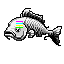
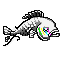
T-166 closed: every back is a back -- 67 fixed

Changed region(s): [[0.0312, 0.125, 0.9688, 0.7188]]

diff --git a/docs/TODO.md b/docs/TODO.md
@@ -64,7 +64,7 @@ was one `git log -S` away.*
 
 | | what | where | from |
 |---|---|---|---|
-| **T-166** | **Every back view is checked to be a back** (*asked 2026-09-18*). **Several redrawn backs are front-like — the model turns a rear view to face the camera, or draws the same side view twice** — *flagged on the sheets so far: SENTRY, RAMROD, TRACER, STARR (following its concept), LATENCY, LULL, NOZZLE, STUB, HANDLER; and batch 12's COLDREAD, HAUNTPROC and TRACKER; batch 13's MULTICAST; batch 14's BLINDSPOT, WHIM, HUDDLE, FIXATION, SIMMER, OMEN and BRISTLE (side-on or facing); batch 15's VIGILANCE, GRASP, IMITATION, REPAY and ILLUSION.* ***The job***: **one contact sheet of every redrawn daemon's front beside its back, read by eye, and a list of the failures** — *then each failure redrawn with batch 7's rear wording ("seen from directly behind, no face visible, back of the head") and a face-and-eyes negative, several seeds, and rebuilt.* *A check a tool can make first: a back whose pixels correlate too closely with its own front (a mirrored or duplicated view) is suspect.* ***Closes when every back on the sheet reads as the creature from behind, and the list is empty.*** ***AUDITED AND A FIRST PASS DRAFTED 2026-09-19*** (*`gfx/drafts/t166/`*): **the audit (`audit_*.png`, `similarity.txt`) found 67 front-like backs, not the 25 listed** — *the symmetric daemons (CLUSTER, LOCUS, BEACON, PULSAR, the jellyfish, dragonflies, crabs) are right to match and are left alone.* **All 67 redrawn back-only, three seeds each (201 drafts); 21 are good rear views of the same creature (`picks.json`, `sheet.png`) — approved and BUILT 2026-09-19 (engine `c97d80a44`), 46 left for the second pass.** ***SECOND PASS BUILT 2026-09-19*** (engine `1748b65c5`; *`second.py`, `picks2.json`, `sheet2.png`, approved; building it found PING's back had been made from its old Gemini JPEG since batch 2, because `gbasprite.py` took the first file its glob matched — it now prefers the PNG*): **each described from its APPROVED front, fish, seahorses and serpents asked for a three-quarter rear view; 20 more are good** — *CHILLER, ENSEMBLE, FERRY, HAUNTPROC, INFERENCE, PING, PIPELINE, RAMROD, RESENTMENT, REVENANT, SENTINEL, SMOGSTACK, WISP, WILDFIRE, WHIM, BLINDSPOT, SEEDLING, SPAWN, FOSSILNET, GRIEVANCE.* **26 remain and are the hard core**: *the owls (COLDREAD, VIGILANCE), the seahorses (NOZZLE, JETSTREAM, TURBULENCE), most fish (BRISTLE, STUB, UPSTREAM), the deer (ILLUSION, STARR), the horses (HOTPATH, OVERDRIVE), and APATHY, BROADCAST, CRYOGEN, EMERGENCE, ESCALATE, FIXATION, GRASP, HANDLER, IMITATION, OMEN, REPAY, SIMMER, SINGULAR, AXIOMKICK* — **the model draws them facing, side-on or as a different creature however they are asked.** *The likely way through is image-to-image from the approved FRONT, mirrored, at a low denoise with a rear-view prompt — keeping the body and turning only the head away — or a hand edit that removes the face.* ***THIRD PASS TRIED 2026-09-19 and it FAILED*** (*`third.py`, `alt3/`*): **image-to-image from each approved front, mirrored, at 0.45/0.55/0.65 with a rear-view prompt, redraws the mirrored front at every strength — the face comes back each time; 0 of 78 turned.** ***What is left, and it is two different problems***: **13 are SIDE-ON daemons whose mirrored side view already faces the foe** (*NOZZLE, JETSTREAM, TURBULENCE, STUB, UPSTREAM, HOTPATH, OVERDRIVE, ILLUSION, STARR, HANDLER, EMERGENCE, ESCALATE, FIXATION*) — *accepting that as the back is what many Gen 3 sprites do;* **13 are FACE-ON daemons with no back the model will draw** (*COLDREAD, VIGILANCE, BRISTLE, APATHY, BROADCAST, CRYOGEN, GRASP, IMITATION, OMEN, REPAY, SIMMER, SINGULAR, AXIOMKICK*) — *they need a drawn back concept, a hand edit, or a different model.* ***THE LAST 26, SPLIT 2026-09-19*** (*decided by the user; `fourth.py`, `clean4/`, `sheet3.png`, awaiting approval*): **the 13 side-on daemons take their approved front MIRRORED as the back; the 13 face-on take the mirrored front with the face removed in code** — *eyes, beak and mouth are the dark or saturated pixels inside the head's outline, filled from the body around them.* *APATHY also lost its dark spots and reads washed-out; IMITATION keeps a trace of its eyes.* ***Why only 21, and what the second pass needs***: *the prompts reused each batch's FIRST description, not the redraw that was approved — so COLDREAD came back a woman, ENSEMBLE palm trees, HANDLER a blue duck, PIPELINE a humanoid. Fish, seahorses, ghosts and serpents also resist a rear view at all.* **Second pass: describe each from its APPROVED front (what is actually drawn), and for the fish and serpents accept a mirrored three-quarter view as the back, which is what the source games did.** *Six more cleaned badly and were dropped (CHILLER, INFERENCE, GRASP, REPAY, IMITATION, OMEN), and SENTINEL's new back still showed its eye.* | `gfx/daemons/*_back.png`, `tools/cleandraft.py`, `tools/contactsheet.py` | T-131 |
+| ~~**T-166**~~ | ~~**Every back view is checked to be a back** (*asked 2026-09-18*). **Several redrawn backs are front-like — the model turns a rear view to face the camera, or draws the same side view twice** — *flagged on the sheets so far: SENTRY, RAMROD, TRACER, STARR (following its concept), LATENCY, LULL, NOZZLE, STUB, HANDLER; and batch 12's COLDREAD, HAUNTPROC and TRACKER; batch 13's MULTICAST; batch 14's BLINDSPOT, WHIM, HUDDLE, FIXATION, SIMMER, OMEN and BRISTLE (side-on or facing); batch 15's VIGILANCE, GRASP, IMITATION, REPAY and ILLUSION.* ***The job***: **one contact sheet of every redrawn daemon's front beside its back, read by eye, and a list of the failures** — *then each failure redrawn with batch 7's rear wording ("seen from directly behind, no face visible, back of the head") and a face-and-eyes negative, several seeds, and rebuilt.* *A check a tool can make first: a back whose pixels correlate too closely with its own front (a mirrored or duplicated view) is suspect.* ***Closes when every back on the sheet reads as the creature from behind, and the list is empty.*** ***AUDITED AND A FIRST PASS DRAFTED 2026-09-19*** (*`gfx/drafts/t166/`*): **the audit (`audit_*.png`, `similarity.txt`) found 67 front-like backs, not the 25 listed** — *the symmetric daemons (CLUSTER, LOCUS, BEACON, PULSAR, the jellyfish, dragonflies, crabs) are right to match and are left alone.* **All 67 redrawn back-only, three seeds each (201 drafts); 21 are good rear views of the same creature (`picks.json`, `sheet.png`) — approved and BUILT 2026-09-19 (engine `c97d80a44`), 46 left for the second pass.** ***SECOND PASS BUILT 2026-09-19*** (engine `1748b65c5`; *`second.py`, `picks2.json`, `sheet2.png`, approved; building it found PING's back had been made from its old Gemini JPEG since batch 2, because `gbasprite.py` took the first file its glob matched — it now prefers the PNG*): **each described from its APPROVED front, fish, seahorses and serpents asked for a three-quarter rear view; 20 more are good** — *CHILLER, ENSEMBLE, FERRY, HAUNTPROC, INFERENCE, PING, PIPELINE, RAMROD, RESENTMENT, REVENANT, SENTINEL, SMOGSTACK, WISP, WILDFIRE, WHIM, BLINDSPOT, SEEDLING, SPAWN, FOSSILNET, GRIEVANCE.* **26 remain and are the hard core**: *the owls (COLDREAD, VIGILANCE), the seahorses (NOZZLE, JETSTREAM, TURBULENCE), most fish (BRISTLE, STUB, UPSTREAM), the deer (ILLUSION, STARR), the horses (HOTPATH, OVERDRIVE), and APATHY, BROADCAST, CRYOGEN, EMERGENCE, ESCALATE, FIXATION, GRASP, HANDLER, IMITATION, OMEN, REPAY, SIMMER, SINGULAR, AXIOMKICK* — **the model draws them facing, side-on or as a different creature however they are asked.** *The likely way through is image-to-image from the approved FRONT, mirrored, at a low denoise with a rear-view prompt — keeping the body and turning only the head away — or a hand edit that removes the face.* ***THIRD PASS TRIED 2026-09-19 and it FAILED*** (*`third.py`, `alt3/`*): **image-to-image from each approved front, mirrored, at 0.45/0.55/0.65 with a rear-view prompt, redraws the mirrored front at every strength — the face comes back each time; 0 of 78 turned.** ***What is left, and it is two different problems***: **13 are SIDE-ON daemons whose mirrored side view already faces the foe** (*NOZZLE, JETSTREAM, TURBULENCE, STUB, UPSTREAM, HOTPATH, OVERDRIVE, ILLUSION, STARR, HANDLER, EMERGENCE, ESCALATE, FIXATION*) — *accepting that as the back is what many Gen 3 sprites do;* **13 are FACE-ON daemons with no back the model will draw** (*COLDREAD, VIGILANCE, BRISTLE, APATHY, BROADCAST, CRYOGEN, GRASP, IMITATION, OMEN, REPAY, SIMMER, SINGULAR, AXIOMKICK*) — *they need a drawn back concept, a hand edit, or a different model.* ***THE LAST 26, SPLIT 2026-09-19*** (*decided by the user; `fourth.py`, `clean4/`, `sheet3.png`, approved and built*): **the 13 side-on daemons take their approved front MIRRORED as the back; the 13 face-on take the mirrored front with the face removed in code** — *eyes, beak and mouth are the dark or saturated pixels inside the head's outline, filled from the body around them.* *APATHY also lost its dark spots and reads washed-out; IMITATION keeps a trace of its eyes.* ***Why only 21, and what the second pass needs***: *the prompts reused each batch's FIRST description, not the redraw that was approved — so COLDREAD came back a woman, ENSEMBLE palm trees, HANDLER a blue duck, PIPELINE a humanoid. Fish, seahorses, ghosts and serpents also resist a rear view at all.* **Second pass: describe each from its APPROVED front (what is actually drawn), and for the fish and serpents accept a mirrored three-quarter view as the back, which is what the source games did.** *Six more cleaned badly and were dropped (CHILLER, INFERENCE, GRASP, REPAY, IMITATION, OMEN), and SENTINEL's new back still showed its eye.*~~ — ***Done 2026-09-19*** (engine `dca915c11`): **all 67 front-like backs fixed — 21 and 20 redrawn as true rear views (passes one and two), 13 side-on mirrored and 13 face-on de-faced (the user's split).** *APATHY reads washed-out and IMITATION keeps a trace of its eyes; both are candidates for a hand-drawn back later.* | `gfx/daemons/*_back.png`, `tools/cleandraft.py`, `tools/contactsheet.py` | T-131 |
 | **T-165** | **PIXELBYTE and SPRITEFORGE are daemons** (*asked 2026-09-18; PIXELBYTE was first noted under T-131*). **The two tools that drew this bestiary become two of its creatures** — *PIXELBYTE, the pixel-art model wrapped as a skill, and SPRITEFORGE, the tool that drives it.* ***The names are the user's and approved; everything else is open***: **which species slot each takes (a renamed vanilla species, or two of the unused slots), their type and line (a pair, or an evolution — a forge that makes the bytes), where the player meets them, and their Index entries** — *new in-game writing, so the wording is approved before it goes in, and craft rule 1 holds: the entry names the process, never the thesis.* **Drawn with the recipe they are named for.** ***SPRITEFORGE knows RECURSION*** (*decided by the user 2026-09-19*): **it is the thing that makes its own sprites** — *a forge that reads its own last output and builds on it.* ***A conflict to settle with it***: **RECURSION is S.T.A.R.R.'s signature (4.7; 5862's table), and the engine comment calls it "S.T.A.R.R.'s alone"** — *`sMovesForbiddenToCopy` only stops METRONOME, CLONE and IMPRINT from reaching it, so a second daemon learning it by level-up is mechanically fine; what changes is that the signature is shared, and 4.7 should say so, or say why SPRITEFORGE's is the same move understood differently.* | `src/data/text/species_names.h`, `src/data/pokemon/`, `gfx/daemons/` | T-131, 2.7 |
 | **T-164** | **Every overworld sprite and tile redrawn through the sprite server, in batches** (*asked 2026-09-18*). **The world art so far — buildings, ground, nature tiles, people, the player (T-52, T-61–T-85, T-105–T-129) — was generated in CODE by the `gba*`/`gen*` tools; the daemons are now drawn through ComfyUI on roverbyteseer (`spriteforge.py`, pixelbyte's model), and the world should be too.** ***The job, planned like T-131***: **a census of every overworld sheet and tileset (object events, trainer overworlds, primary and secondary tilesets, the ones already ours included), then batches in the order a player sees them, each drafted, on a contact sheet, approved, then built** — *tiles are a harder target than sprites: 8×8 cells, shared palettes per tileset, metatile layers and collision that must not move (T-125's zero-collision-change rule), and seams between tiles (engine.md trap 14).* ***Depends on T-133*** *for the daemon objects.* **First step: a trial on one building and one ground tileset, to learn whether the model can draw tileable 16×16 metatiles at all, before a plan is written.** | `graphics/object_events/`, `data/tilesets/`, `tools/spriteforge.py`, `tools/gbainterior.py` | T-131, T-133, T-125, 9.22, 9.23 |
 | ~~**T-163**~~ | ~~**MISSINGNO is an homage** (*decided by the user 2026-09-18*). **Its sprite is the original's backwards-L block of scrambled texture, but CODIFIED — made of green falling-matrix code** *rather than random tile garbage.* **It stands in `OLD_UNOWN_B` at level 80 and was left out of T-131's batches for this decision.** ***Open***: *whether the green is its type's colour or the one exception to 9.4 (a glitch that ignores the colour rule is itself an homage), its back view, and its Index entry (new writing, approved first).*~~ — ***Done 2026-09-19*** (engine `47b3c8aec`; `gfx/drafts/t163/`): **the backwards-L block, filled with columns of falling green code** — *generated by `make.py`, not drawn by the model, because it is code; fixed seeds (1996 front, 2026 back) so it rebuilds identically. Its own `graphics/pokemon/old_unown_b` and four table entries (it had shared the "??" placeholder with the other old-Unown slots). The body ramps to CORRUPT's mould and the greens stay accents, so the colour rule's one exception needed no exception. Index entry still vanilla's; new writing waits on approval.* | `graphics/pokemon/old_unown_b/`, `gfx/daemons/` | T-131, 9.4 |
